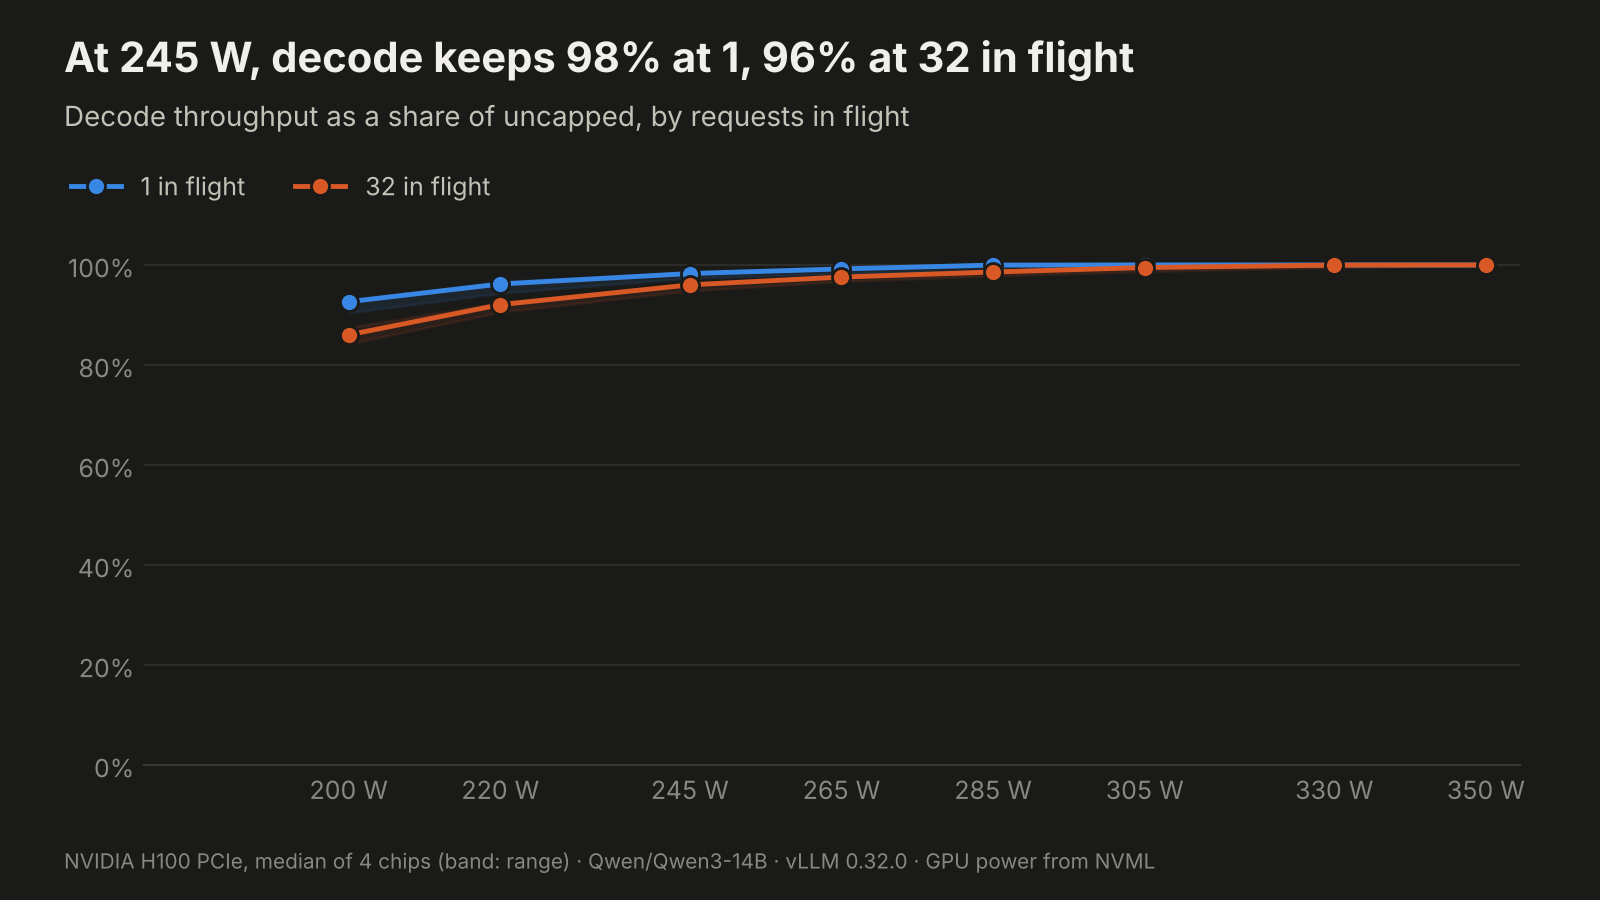
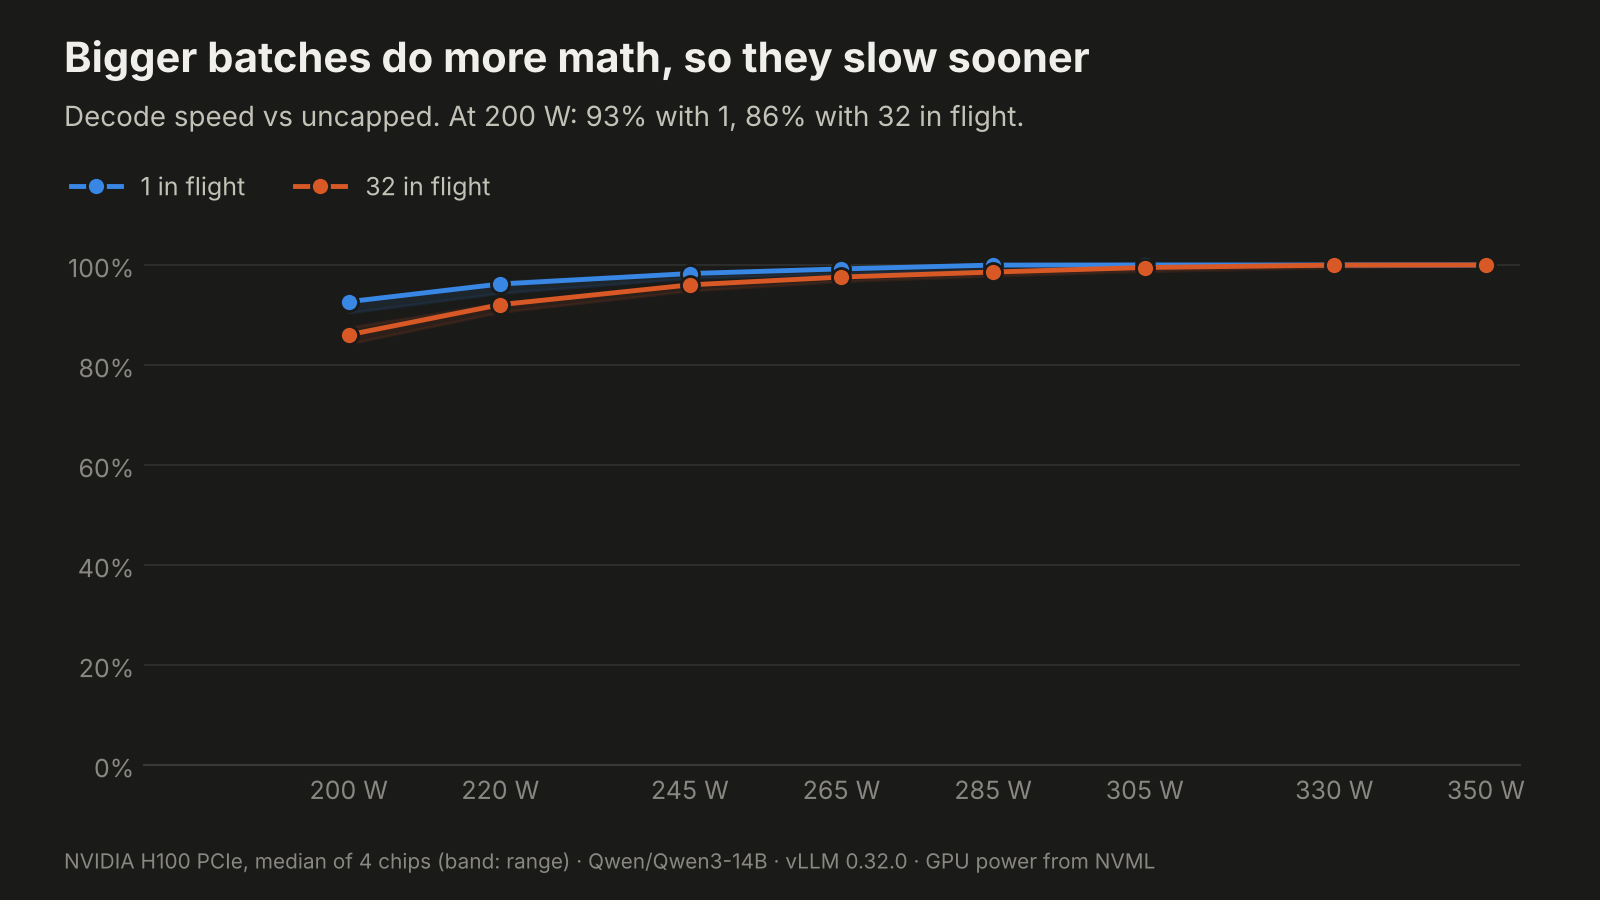
Explain the result in chart titles and add a clock chart
Titles now state the cause when the data supports it and fall back to the
numbers when it doesn't. The new clock chart shows the core clock at each
limit for decode and prefill.

Changed region(s): [[0.0312, 0.0311, 0.7188, 0.1556]]

diff --git a/tpw/plot.py b/tpw/plot.py
@@ -8,6 +8,7 @@ from __future__ import annotations
 
 import argparse
 import json
+import math
 import statistics
 from collections import defaultdict
 from dataclasses import dataclass
@@ -22,13 +23,14 @@ import matplotlib.pyplot as plt
 from matplotlib.axes import Axes
 from matplotlib.figure import Figure
 
-Metric = Literal["tokens_per_s", "tokens_per_j"]
+Metric = Literal["tokens_per_s", "tokens_per_j", "sm_clock_mhz"]
 Key = tuple[str, int]
 
 SIZE_IN = (8.0, 4.5)  # 1600 x 900 at 200 dpi
 DPI = 200
 KEEP = 95.0  # % of uncapped decode speed that defines the sweet spot
 MIN_LABEL_GAP = 6.0  # percentage points between end labels
+FULL_CLOCK = 97.0  # % of uncapped clock that still counts as full
 
 FONTS = ["Inter", "Arial", "DejaVu Sans"]
 LINE: dict[str, Any] = {"linewidth": 1.75, "marker": "o", "markersize": 6.5, "zorder": 3}
@@ -79,6 +81,7 @@ class Point:
     tokens_per_s: float
     tokens_per_j: float
     mean_power_w: float
+    sm_clock_mhz: float = math.nan
 
 
 @dataclass(frozen=True)
@@ -101,7 +104,8 @@ def load(path: Path) -> tuple[dict[str, Any], list[dict[str, Any]]]:
 
 
 def _median(rows: list[dict[str, Any]], key: str) -> float:
-    return float(statistics.median(row[key] for row in rows))
+    values = [row[key] for row in rows if row.get(key) is not None]
+    return float(statistics.median(values)) if values else math.nan
 
 
 def summarize(runs: list[dict[str, Any]]) -> Series:
@@ -112,7 +116,8 @@ def summarize(runs: list[dict[str, Any]]) -> Series:
 
     series: defaultdict[Key, list[Point]] = defaultdict(list)
     for (kind, concurrency, limit), rows in sorted(groups.items()):
-        metrics = (_median(rows, key) for key in ("tokens_per_s", "tokens_per_j", "mean_power_w"))
+        keys = ("tokens_per_s", "tokens_per_j", "mean_power_w", "median_sm_clock_mhz")
+        metrics = (_median(rows, key) for key in keys)
         series[(kind, concurrency)].append(Point(limit, *metrics))
     return dict(series)
 
@@ -123,11 +128,15 @@ def shares(points: list[Point], metric: Metric) -> list[float]:
     return [100 * getattr(p, metric) / base for p in points]
 
 
-def bands(chips: list[Series], key: Key, metric: Metric) -> list[Band]:
+def bands(chips: list[Series], key: Key, metric: Metric, relative: bool = True) -> list[Band]:
+    """Median and range across chips at each limit, as % of uncapped unless `relative` is off."""
     limits = [p.limit_w for p in chips[0][key]]
     if any([p.limit_w for p in chip[key]] != limits for chip in chips):
         raise ValueError("every chip must be swept over the same power limits")
-    per_chip = [shares(chip[key], metric) for chip in chips]
+    per_chip = [
+        shares(chip[key], metric) if relative else [getattr(p, metric) for p in chip[key]]
+        for chip in chips
+    ]
     return [
         Band(limit, statistics.median(values), min(values), max(values))
         for limit, values in zip(limits, zip(*per_chip, strict=True), strict=True)
@@ -144,6 +153,42 @@ def sweet_spot(speed: list[Band], keep: float = KEEP) -> float:
     while i > 0 and speed[i - 1].mid >= keep:
         i -= 1
     return speed[i].limit_w
+
+
+def holds_until(curve: list[Band], keep: float) -> float:
+    """The lowest limit down to which a curve stays within `keep`% of its uncapped value."""
+    top = curve[-1].mid
+    return sweet_spot([Band(b.limit_w, 100 * b.mid / top, 0, 0) for b in curve], keep)
+
+
+def slows_prefill_not_decode(decode: list[Band], prefill: list[Band], limit_w: float) -> bool:
+    """True when the cap costs prefill at least twice what it costs decode."""
+    return 100 - at(prefill, limit_w) >= 2 * max(100 - at(decode, limit_w), 1.0)
+
+
+def speed_title(decode: list[Band], prefill: list[Band], spot: float) -> str:
+    if slows_prefill_not_decode(decode, prefill, spot):
+        return "A power cap slows prefill, not decode"
+    return (
+        f"At {spot:.0f} W, decode keeps {at(decode, spot):.0f}%, prefill {at(prefill, spot):.0f}%"
+    )
+
+
+def efficiency_title(decode: list[Band]) -> str:
+    peak = max(decode, key=lambda b: b.mid)
+    if peak.mid <= 100:
+        return "A power cap doesn't make decode cheaper here"
+    if peak is decode[0]:
+        return "Every cut makes each decode token cheaper"
+    return f"Lower clocks make each decode token cheaper, down to {peak.limit_w:.0f} W"
+
+
+def concurrency_title(small: list[Band], large: list[Band]) -> tuple[str, float]:
+    """The title and the limit where the larger batch falls furthest behind."""
+    gap, limit = max((s.mid - b.mid, s.limit_w) for s, b in zip(small, large, strict=True))
+    if gap >= 2:
+        return "Bigger batches do more math, so they slow sooner", limit
+    return "Batch size barely changes what the cap costs decode", limit
 
 
 class Canvas:
@@ -239,8 +284,11 @@ def speed_chart(c: Canvas, chips: list[Series], concurrency: int, out: Path) -> 
     prefill = bands(chips, ("prefill", concurrency), "tokens_per_s")
     spot, top = sweet_spot(decode), decode[-1].limit_w
     d, p = at(decode, spot), at(prefill, spot)
-    title = f"At {spot:.0f} W, decode keeps {d:.0f}% of its speed. Prefill keeps {p:.0f}%."
-    subtitle = f"Throughput as a share of the uncapped {top:.0f} W, {concurrency} in flight"
+    title = speed_title(decode, prefill, spot)
+    subtitle = (
+        f"Speed vs uncapped {top:.0f} W, {concurrency} in flight. "
+        f"At {spot:.0f} W decode keeps {d:.0f}%, prefill {p:.0f}%."
+    )
 
     fig, ax = decode_and_prefill(c, decode, prefill, title, subtitle)
     ax.axvspan(spot, top, color=c.t.wash, zorder=0, linewidth=0)
@@ -255,8 +303,12 @@ def efficiency_chart(c: Canvas, chips: list[Series], concurrency: int, out: Path
     decode = bands(chips, ("decode", concurrency), "tokens_per_j")
     prefill = bands(chips, ("prefill", concurrency), "tokens_per_j")
     spot, top = sweet_spot(speed), decode[-1].limit_w
-    title = f"Capped at {spot:.0f} W, decode gets {at(decode, spot) - 100:+.0f}% tokens per joule"
-    subtitle = f"Tokens per joule as a share of the uncapped {top:.0f} W, {concurrency} in flight"
+    title = efficiency_title(decode)
+    subtitle = (
+        f"Tokens per joule vs uncapped {top:.0f} W, {concurrency} in flight. "
+        f"At {spot:.0f} W decode {at(decode, spot) - 100:+.0f}%, "
+        f"prefill {at(prefill, spot) - 100:+.0f}%."
+    )
 
     fig, ax = decode_and_prefill(c, decode, prefill, title, subtitle)
     ax.axhline(100, color=c.t.axis, linewidth=0.75, zorder=1)
@@ -270,10 +322,9 @@ def concurrency_chart(c: Canvas, chips: list[Series], out: Path) -> None:
     if len(keys) < 2:
         return
     curves = {n: bands(chips, (kind, n), "tokens_per_s") for kind, n in keys}
-    spot = sweet_spot(curves[max(curves)])
-    kept = ", ".join(f"{at(curve, spot):.0f}% at {n}" for n, curve in curves.items())
-    title = f"At {spot:.0f} W, decode keeps {kept} in flight"
-    subtitle = "Decode throughput as a share of uncapped, by requests in flight"
+    title, limit = concurrency_title(curves[min(curves)], curves[max(curves)])
+    kept = ", ".join(f"{at(curve, limit):.0f}% with {n}" for n, curve in curves.items())
+    subtitle = f"Decode speed vs uncapped. At {limit:.0f} W: {kept} in flight."
 
     fig, ax = c.chart(title, subtitle)
     for slot, (n, curve) in enumerate(curves.items()):
@@ -282,6 +333,36 @@ def concurrency_chart(c: Canvas, chips: list[Series], out: Path) -> None:
     watts_axis(ax, [b.limit_w for b in curves[max(curves)]])
     percent_axis(ax)
     c.save(fig, out / "concurrency.png")
+
+
+def clock_chart(c: Canvas, chips: list[Series], concurrency: int, out: Path) -> None:
+    decode_key, prefill_key = ("decode", concurrency), ("prefill", concurrency)
+    if any(
+        math.isnan(p.sm_clock_mhz) for chip in chips for p in chip[decode_key] + chip[prefill_key]
+    ):
+        return
+    decode = bands(chips, decode_key, "sm_clock_mhz", relative=False)
+    prefill = bands(chips, prefill_key, "sm_clock_mhz", relative=False)
+    decode_speed = bands(chips, decode_key, "tokens_per_s")
+    prefill_speed = bands(chips, prefill_key, "tokens_per_s")
+    if slows_prefill_not_decode(decode_speed, prefill_speed, sweet_spot(decode_speed)):
+        title = "The cap lowers the clock. Only prefill needs it."
+    else:
+        title = "Core clock under each power limit"
+    full = holds_until(decode, FULL_CLOCK)
+    subtitle = (
+        f"Median core clock in MHz, {concurrency} in flight. "
+        f"Decode holds full clock down to {full:.0f} W."
+    )
+
+    fig, ax = c.chart(title, subtitle)
+    c.line(ax, decode, 0, "Decode (writing tokens)")
+    c.line(ax, prefill, 1, "Prefill (reading the prompt)")
+    c.legend(fig, ax)
+    watts_axis(ax, [b.limit_w for b in decode])
+    ax.set_ylim(0, max(b.high for b in decode + prefill) * 1.12)
+    ax.yaxis.set_major_formatter(lambda value, _: f"{value:,.0f}")
+    c.save(fig, out / "clock.png")
 
 
 def headline(c: Canvas, chips: list[Series], concurrency: int, out: Path) -> None:
@@ -323,6 +404,7 @@ def main(argv: list[str] | None = None) -> None:
     args.out.mkdir(parents=True, exist_ok=True)
 
     speed_chart(canvas, chips, concurrency, args.out)
+    clock_chart(canvas, chips, concurrency, args.out)
     efficiency_chart(canvas, chips, concurrency, args.out)
     concurrency_chart(canvas, chips, args.out)
     headline(canvas, chips, concurrency, args.out)

diff --git a/tests/test_tpw.py b/tests/test_tpw.py
@@ -32,11 +32,12 @@ def test_sweet_spot_is_the_max_when_any_cut_costs_too_much():
 
 def test_summarize_takes_the_median_of_repeats_in_limit_order():
     run = {"kind": "decode", "concurrency": 1, "tokens_per_j": 1, "mean_power_w": 1}
+    run["median_sm_clock_mhz"] = 1
     speeds = [(300, 10), (300, 30), (300, 20), (200, 5)]
     runs = [{**run, "limit_w": w, "tokens_per_s": s} for w, s in speeds]
 
     points = plot.summarize(runs)[("decode", 1)]
-    assert points == [plot.Point(200, 5, 1, 1), plot.Point(300, 20, 1, 1)]
+    assert points == [plot.Point(200, 5, 1, 1, 1), plot.Point(300, 20, 1, 1, 1)]
 
 
 def test_bands_normalise_each_chip_then_take_the_median_and_range():
@@ -47,6 +48,34 @@ def test_bands_normalise_each_chip_then_take_the_median_and_range():
     low, top = plot.bands(chips, key, "tokens_per_s")
     assert low == plot.Band(300, mid=90, low=80, high=90)
     assert top == plot.Band(400, mid=100, low=100, high=100)
+
+
+def test_bands_can_keep_raw_values():
+    key = ("decode", 8)
+    chips = [{key: [plot.Point(300, 1, 1, 1, sm_clock_mhz=900), plot.Point(400, 1, 1, 1, 1980)]}]
+    assert [b.mid for b in plot.bands(chips, key, "sm_clock_mhz", relative=False)] == [900, 1980]
+
+
+def test_titles_give_the_cause_only_when_the_data_shows_it():
+    decode, prefill = (
+        curve((300, 90), (400, 96), (500, 100)),
+        curve((300, 50), (400, 75), (500, 100)),
+    )
+    assert plot.speed_title(decode, prefill, 400) == "A power cap slows prefill, not decode"
+    assert plot.speed_title(decode, decode, 400).startswith("At 400 W")
+
+    rising_then_falling = curve((300, 120), (400, 140), (500, 100))
+    assert plot.efficiency_title(rising_then_falling).endswith("down to 400 W")
+    assert plot.efficiency_title(curve((300, 130), (500, 100))).startswith("Every cut")
+    assert plot.efficiency_title(curve((300, 90), (500, 100))).startswith("A power cap doesn't")
+
+    title, limit = plot.concurrency_title(decode, prefill)
+    assert title.startswith("Bigger batches") and limit == 300
+
+
+def test_holds_until_finds_where_a_curve_leaves_its_uncapped_value():
+    clock = curve((200, 345), (300, 1500), (400, 1950), (500, 1980))
+    assert plot.holds_until(clock, 97) == 400
 
 
 def test_bands_refuse_chips_swept_over_different_limits():
@@ -94,4 +123,4 @@ def test_a_simulated_sweep_records_every_run_and_plots_every_chart(tmp_path: Pat
 
     plot.main([str(results), "--out", str(charts)])
     names = {path.name for path in charts.iterdir()}
-    assert names == {"speed.png", "efficiency.png", "concurrency.png", "headline.png"}
+    assert names == {"speed.png", "clock.png", "efficiency.png", "concurrency.png", "headline.png"}
